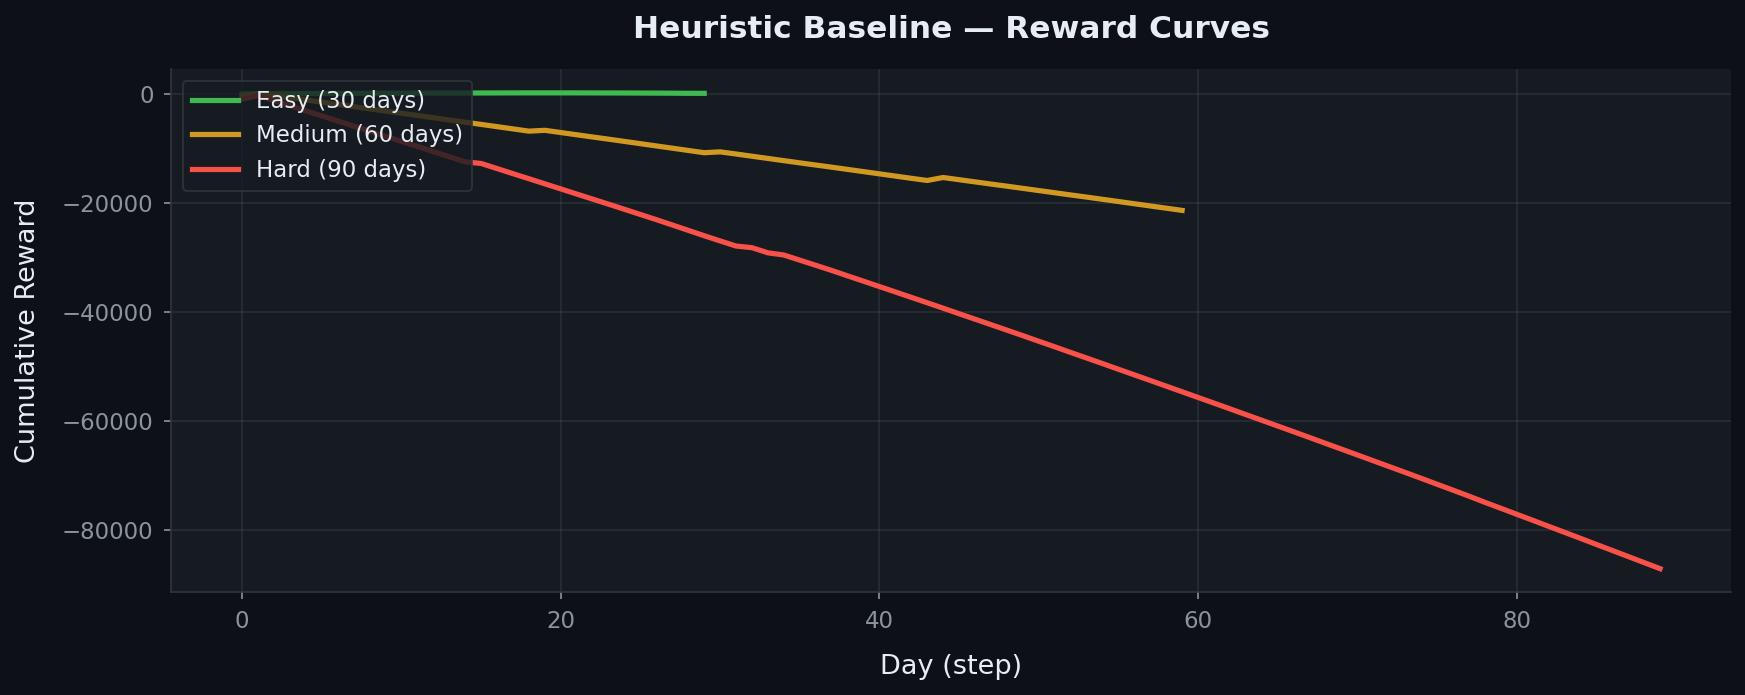
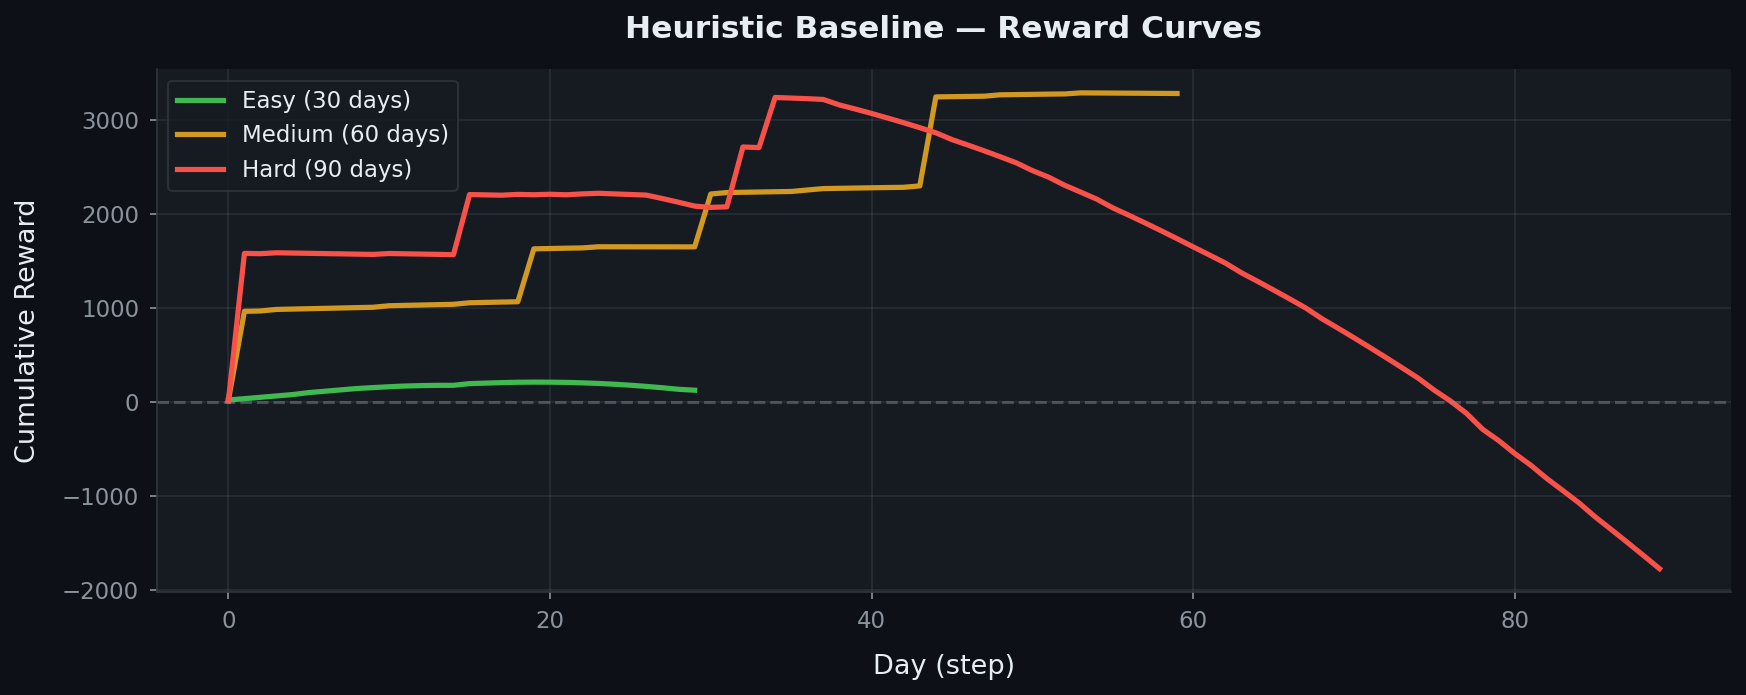
fix: scale interest penalty for INR + regenerate plots (no more -87K rewards)

diff --git a/server/my_env_environment.py b/server/my_env_environment.py
@@ -952,7 +952,8 @@ class MyEnvironment(Environment):
         if self._checking < 0:
             breakdown["overdraft_penalty"] = -25.0
 
-        breakdown["interest_penalty"] = self._today_interest * -2.0
+        # Interest penalty scaled for INR (₹470/day interest → ~-9.4 penalty)
+        breakdown["interest_penalty"] = (self._today_interest / 100.0) * -2.0
         breakdown["default_penalty"] = self._today_defaults * -50.0
 
         if self._savings <= 0.01:
